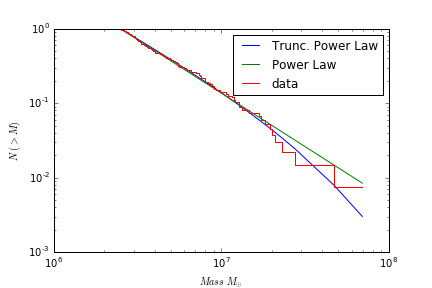
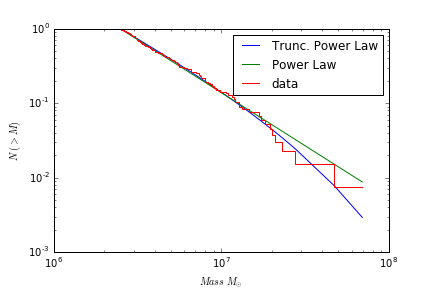
mass distribution all

diff --git a/powerlawbins.py b/powerlawbins.py
@@ -32,23 +32,29 @@ t.add_column(colrgal)
 
 #index the file so you get clouds within a certain radius
 idx_1=np.where(t['RADIUS_PC']<450)
+idxmass_1=np.where((t['MASS_EXTRAP']>2496477.5)&(t['RADIUS_PC']<450))
 
 #pull out the mass variable and fit it
 massdisk1=t['MASS_EXTRAP'][idx_1].data
 fit_1=powerlaw.Fit(massdisk1)
+massdisk1_subset=t['MASS_EXTRAP'][idxmass_1].data
+fit_1_subset=powerlaw.Fit(massdisk1_subset, xmin=2496477.5)
+
+
 
 #fit_1.plot_ccdf() #look at the data with the fit
 print(fit_1.alpha) #returns the fitted index
+print(fit_1_subset.alpha)
 
 #compares two different forms of the distribution
 #R<0 means the data is more consistent with the right distribution, p is the significance of the result
-R1,p1=fit_1.distribution_compare('power_law', 'truncated_power_law')
+R1,p1=fit_1_subset.distribution_compare('power_law', 'truncated_power_law')
 print(R1,p1)
 
 plt.figure(1)
-fit_1.truncated_power_law.plot_ccdf(label='Trunc. Power Law')
-fit_1.power_law.plot_ccdf(label='Power Law')
-fit_1.plot_ccdf(drawstyle='steps', label='data')
+fit_1_subset.truncated_power_law.plot_ccdf(label='Trunc. Power Law')
+fit_1_subset.power_law.plot_ccdf(label='Power Law')
+fit_1_subset.plot_ccdf(drawstyle='steps', label='data')
 plt.xlabel(r'$Mass\ M_{\odot}$')
 plt.ylabel(r'$N\ (>M)$')
 plt.legend()
@@ -57,20 +63,24 @@ plt.savefig('powerlawbin1.png')
 #plot bin 2
 
 idx_2=np.where((t['RADIUS_PC']>450)&(t['RADIUS_PC']<2300))
+idxmass_2=np.where((t['MASS_EXTRAP']>2496477.5)&(t['RADIUS_PC']>450)&(t['RADIUS_PC']<2300))
 
+massdisk2_subset=t['MASS_EXTRAP'][idxmass_2].data
+fit_2_subset=powerlaw.Fit(massdisk2_subset, xmin=2496477.5)
 massdisk2=t['MASS_EXTRAP'][idx_2].data
 fit_2=powerlaw.Fit(massdisk2)
 
 #fit_1.plot_ccdf() #look at the data with the fit
 print(fit_2.alpha) #returns the fitted index
+print(fit_2_subset.alpha)
 
-R2,p2=fit_2.distribution_compare('power_law', 'truncated_power_law')
+R2,p2=fit_2_subset.distribution_compare('power_law', 'truncated_power_law')
 print(R2,p2)
 
 plt.figure(2)
-fit_2.truncated_power_law.plot_ccdf(label='Trunc. Power Law')
-fit_2.power_law.plot_ccdf(label='Power Law')
-fit_2.plot_ccdf(drawstyle='steps', label='data')
+fit_2_subset.truncated_power_law.plot_ccdf(label='Trunc. Power Law')
+fit_2_subset.power_law.plot_ccdf(label='Power Law')
+fit_2_subset.plot_ccdf(drawstyle='steps', label='data')
 plt.xlabel(r'$Mass\ M_{\odot}$')
 plt.ylabel(r'$N\ (>M)$')
 plt.legend()
@@ -79,20 +89,25 @@ plt.savefig('powerlawbin2.png')
 #plot bin 3
 
 idx_3=np.where((t['RADIUS_PC']>2300)&(t['RADIUS_PC']<3200))
+idxmass_3=np.where((t['MASS_EXTRAP']>2496477.5)&(t['RADIUS_PC']>2300)&(t['RADIUS_PC']<3200))
+
+massdisk3_subset=t['MASS_EXTRAP'][idxmass_3].data
+fit_3_subset=powerlaw.Fit(massdisk3_subset, xmin=2496477.5)
 
 massdisk3=t['MASS_EXTRAP'][idx_3].data
 fit_3=powerlaw.Fit(massdisk3)
 
 #fit_1.plot_ccdf() #look at the data with the fit
 print(fit_3.alpha) #returns the fitted index
+print(fit_3_subset.alpha)
 
-R3,p3=fit_3.distribution_compare('power_law', 'truncated_power_law')
+R3,p3=fit_3_subset.distribution_compare('power_law', 'truncated_power_law')
 print(R3,p3)
 
 plt.figure(3)
-fit_3.truncated_power_law.plot_ccdf(label='Trunc. Power Law')
-fit_3.power_law.plot_ccdf(label='Power Law')
-fit_3.plot_ccdf(drawstyle='steps', label='data')
+fit_3_subset.truncated_power_law.plot_ccdf(label='Trunc. Power Law')
+fit_3_subset.power_law.plot_ccdf(label='Power Law')
+fit_3_subset.plot_ccdf(drawstyle='steps', label='data')
 plt.xlabel(r'$Mass\ M_{\odot}$')
 plt.ylabel(r'$N\ (>M)$')
 plt.legend()
@@ -101,20 +116,25 @@ plt.savefig('powerlawbin3.png')
 #plot bin 4
 
 idx_4=np.where((t['RADIUS_PC']>3200)&(t['RADIUS_PC']<3900))
+idxmass_4=np.where((t['MASS_EXTRAP']>2496477.5)&(t['RADIUS_PC']>3200)&(t['RADIUS_PC']<3900))
+
+massdisk4_subset=t['MASS_EXTRAP'][idxmass_4].data
+fit_4_subset=powerlaw.Fit(massdisk4_subset, xmin=2496477.5)
 
 massdisk4=t['MASS_EXTRAP'][idx_4].data
 fit_4=powerlaw.Fit(massdisk4)
 
 #fit_1.plot_ccdf() #look at the data with the fit
 print(fit_4.alpha) #returns the fitted index
+print(fit_4_subset.alpha)
 
-R4,p4=fit_4.distribution_compare('power_law', 'truncated_power_law')
+R4,p4=fit_4_subset.distribution_compare('power_law', 'truncated_power_law')
 print(R4,p4)
 
 plt.figure(4)
-fit_4.truncated_power_law.plot_ccdf(label='Trunc. Power Law')
-fit_4.power_law.plot_ccdf(label='Power Law')
-fit_4.plot_ccdf(drawstyle='steps', label='data')
+fit_4_subset.truncated_power_law.plot_ccdf(label='Trunc. Power Law')
+fit_4_subset.power_law.plot_ccdf(label='Power Law')
+fit_4_subset.plot_ccdf(drawstyle='steps', label='data')
 plt.xlabel(r'$Mass\ M_{\odot}$')
 plt.ylabel(r'$N\ (>M)$')
 plt.legend()
@@ -123,20 +143,25 @@ plt.savefig('powerlawbin4.png')
 #plot bin 5
 
 idx_5=np.where((t['RADIUS_PC']>3900)&(t['RADIUS_PC']<4500))
+idxmass_5=np.where((t['MASS_EXTRAP']>2496477.5)&(t['RADIUS_PC']>3900)&(t['RADIUS_PC']<4500))
+
+massdisk5_subset=t['MASS_EXTRAP'][idxmass_5].data
+fit_5_subset=powerlaw.Fit(massdisk5_subset, xmin=2496477.5)
 
 massdisk5=t['MASS_EXTRAP'][idx_5].data
 fit_5=powerlaw.Fit(massdisk5)
 
 #fit_1.plot_ccdf() #look at the data with the fit
 print(fit_5.alpha) #returns the fitted index
+print(fit_5_subset.alpha)
 
-R5,p5=fit_5.distribution_compare('power_law', 'truncated_power_law')
+R5,p5=fit_5_subset.distribution_compare('power_law', 'truncated_power_law')
 print(R5,p5)
 
 plt.figure(5)
-fit_5.truncated_power_law.plot_ccdf(label='Trunc. Power Law')
-fit_5.power_law.plot_ccdf(label='Power Law')
-fit_5.plot_ccdf(drawstyle='steps', label='data')
+fit_5_subset.truncated_power_law.plot_ccdf(label='Trunc. Power Law')
+fit_5_subset.power_law.plot_ccdf(label='Power Law')
+fit_5_subset.plot_ccdf(drawstyle='steps', label='data')
 plt.xlabel(r'$Mass\ M_{\odot}$')
 plt.ylabel(r'$N\ (>M)$')
 plt.legend()
@@ -144,16 +169,14 @@ plt.savefig('powerlawbin5.png')
 
 
 t=PrettyTable(["Bins", "R", "p", "index", "Adamo's index"])
-t.add_row(["0<r<4.5", -0.610329, 0.269231, 2.436146, "N/A"])
-t.horizontal_char
-t.add_row(["r<1", -0.406056, 0.367496, 2.541322, "N/A"])
-t.add_row(["r>1", -0.644785, 0.256127, 3.309108, "N/A"])
-t.horizontal_char
-t.add_row(["0<r<0.45", R1, p1, -fit_1.alpha, "N/A"])
-t.add_row(["0.45<r<2.3", R2, p2, -fit_2.alpha, -1.90])
-t.add_row(["2.3<r<3.2", R3, p3, -fit_3.alpha, -2.20])
-t.add_row(["3.2<r<3.9", R4, p4, -fit_4.alpha, -2.20])
-t.add_row(["3.9<r<4.5", R5, p5, -fit_5.alpha, -2.70])
+t.add_row(["0<r<4.5", -0.680348, 0.243417, -2.425428, "N/A"])
+t.add_row(["r<1", -3.470554, 0.008424, -1.958932, "N/A"])
+t.add_row(["r>1", -1.066727, 0.144116, -3.205864, "N/A"])
+t.add_row(["0<r<0.45", R1, p1, -fit_1_subset.alpha, "N/A"])
+t.add_row(["0.45<r<2.3", R2, p2, -fit_2_subset.alpha, -1.90])
+t.add_row(["2.3<r<3.2", R3, p3, -fit_3_subset.alpha, -2.20])
+t.add_row(["3.2<r<3.9", R4, p4, -fit_4_subset.alpha, -2.20])
+t.add_row(["3.9<r<4.5", R5, p5, -fit_5_subset.alpha, -2.70])
 print t
     
 data=t.get_string()

diff --git a/powerlaws.py b/powerlaws.py
@@ -1,0 +1,33 @@
+# -*- coding: utf-8 -*-
+
+import astropy
+import astropy.table
+import numpy as np
+import matplotlib.pyplot as plt
+from galaxies import Galaxy
+import powerlaw
+from astropy.table import Table
+
+t=Table.read('/home/pafreema/Documents/m83.co10_props_cprops.fits') #loads into astropy table
+mass=t['MASS_EXTRAP'].data #pulls out the mass variable
+myfit=powerlaw.Fit(mass)
+print(myfit.xmin)
+idx=np.where(t['MASS_EXTRAP']>2496477.5)
+mass_subset=t['MASS_EXTRAP'][idx].data
+myfit_subset=powerlaw.Fit(mass_subset, xmin=myfit.xmin)
+
+#myfit.plot_ccdf() #look at the data with the fit
+print(myfit.alpha) #returns the fitted index
+print(myfit_subset.alpha)
+
+R,p=myfit_subset.distribution_compare('power_law', 'truncated_power_law')
+print(R,p)
+#compares two different forms of the distribution
+#R<0 means the data is more consistent with the right distribution, p is the significance of the result
+myfit_subset.truncated_power_law.plot_ccdf(label='Trunc. Power Law')
+myfit_subset.power_law.plot_ccdf(label='Power Law')
+myfit_subset.plot_ccdf(drawstyle='steps', label='data')
+plt.xlabel(r'$Mass\ M_{\odot}$')
+plt.ylabel(r'$N\ (>M)$')
+plt.legend()
+plt.savefig('powerlaw.png')

diff --git a/powerlawdisk.py b/powerlawdisk.py
@@ -24,19 +24,22 @@ t.add_column(colrgal)
 #print(t)
 
 idxdisk=np.where(t['RADIUS_PC']>1000)
-
+idxmass=np.where((t['MASS_EXTRAP']>2496477.5)&(t['RADIUS_PC']>1000))
 massdisk=t['MASS_EXTRAP'][idxdisk].data
+massdisk_subset=t['MASS_EXTRAP'][idxmass].data
 myfit=powerlaw.Fit(massdisk)
+myfit_subset=powerlaw.Fit(massdisk_subset, xmin=2496477.5)
 
 #myfit.plot_ccdf() #look at the data with the fit
 print(myfit.alpha) #returns the fitted index
+print(myfit_subset.alpha)
 
-R,p=myfit.distribution_compare('power_law', 'truncated_power_law')
+R,p=myfit_subset.distribution_compare('power_law', 'truncated_power_law')
 print(R,p)
 
-myfit.truncated_power_law.plot_ccdf(label='Trunc. Power Law')
-myfit.power_law.plot_ccdf(label='Power Law')
-myfit.plot_ccdf(drawstyle='steps', label='data')
+myfit_subset.truncated_power_law.plot_ccdf(label='Trunc. Power Law')
+myfit_subset.power_law.plot_ccdf(label='Power Law')
+myfit_subset.plot_ccdf(drawstyle='steps', label='data')
 plt.xlabel(r'$Mass\ M_{\odot}$')
 plt.ylabel(r'$N\ (>M)$')
 plt.legend()

diff --git a/powerlawnuclear.py b/powerlawnuclear.py
@@ -23,19 +23,22 @@ t.add_column(colrgal)
 #print(t)
 
 idxnuc=np.where(t['RADIUS_PC']<1000)
-
+idxmass=np.where((t['MASS_EXTRAP']>2496477.5)&(t['RADIUS_PC']<1000))
 massnuc=t['MASS_EXTRAP'][idxnuc].data
+massnuc_subset=t['MASS_EXTRAP'][idxmass].data
 myfit=powerlaw.Fit(massnuc)
+myfit_subset=powerlaw.Fit(massnuc_subset, xmin=2496477.5)
 
 #myfit.plot_ccdf() #look at the data with the fit
 print(myfit.alpha) #returns the fitted index
+print(myfit_subset.alpha)
 
-R,p=myfit.distribution_compare('power_law', 'truncated_power_law')
+R,p=myfit_subset.distribution_compare('power_law', 'truncated_power_law')
 print(R,p)
 
-myfit.truncated_power_law.plot_ccdf(label='Trunc. Power Law')
-myfit.power_law.plot_ccdf(label='Power Law')
-myfit.plot_ccdf(drawstyle='steps', label='data')
+myfit_subset.truncated_power_law.plot_ccdf(label='Trunc. Power Law')
+myfit_subset.power_law.plot_ccdf(label='Power Law')
+myfit_subset.plot_ccdf(drawstyle='steps', label='data')
 plt.xlabel(r'$Mass\ M_{\odot}$')
 plt.ylabel(r'$N\ (>M)$')
 plt.legend()
